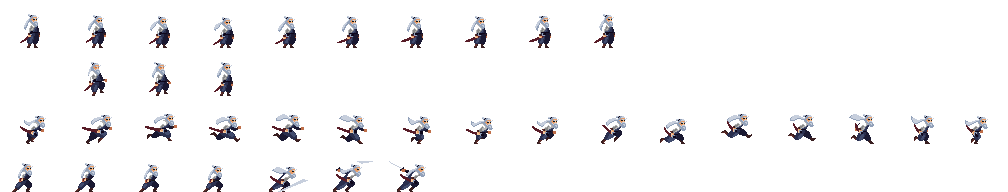
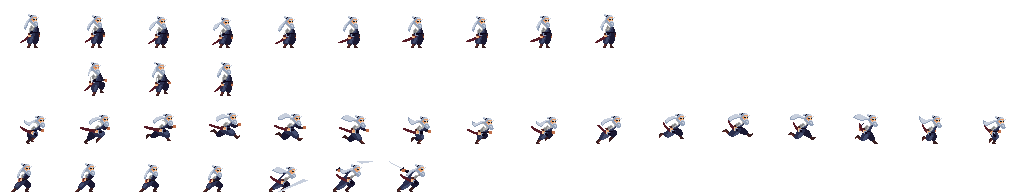
Init do Jogo

diff --git a/jogo.c b/jogo.c
@@ -6,20 +6,40 @@
 
 
 void InitJogo(VariveisGerais *geral, VariveisJogo *jogo, TAMANHOS tamanhos){
-    geral->jogador = geral->jogador = (Player){100,
+    
+    geral->jogador = (Player){100,
          3,
         (float)tamanhos.tamanho_bloco[0]/tamanhos.tamanho_jogador[0]*3,
-        (SDL_FRect){100, 100, tamanhos.tamanho_jogador[0], tamanhos.tamanho_jogador[1]}};
+    };
+
+    jogo->jogador = InitPlayer(
+    geral->renderizador, 
+    (SDL_FRect){100,100,tamanhos.tamanho_jogador[0],tamanhos.tamanho_jogador[1]},
+    (SDL_FRect){100,100,tamanhos.tamanho_jogador[0]/2,tamanhos.tamanho_jogador[1]*((float)2/3)},
+    "C:/Users/17898981/projetos/Teste_SDL3/assets/images/entities/player/Samurai.png"
+    );
 
     jogo->cor_fundo = (SDL_Color)AZUL;
     jogo->velocidade_jogador_x = 0;
     jogo->velocidade_jogador_y = 0;
-    memset(jogo->mapa,1,sizeof(jogo->mapa));
+    memset(jogo->mapa,0,sizeof(jogo->mapa));
 
-    for(int i = 0; i < TamanhosMapaX; i++) printf("%d", jogo->mapa[i][0]);
+    //for(int i = 0; i < TamanhosMapaX; i++) printf("%d", jogo->mapa[i][0]);
+}
 
+void CalcularJogo(VariveisGerais *geral, VariveisJogo *jogo, TAMANHOS tamanhos){
+    // a fazer
+    tamanhos->tamanho_jogador[0]/ (float)64 / 640; 
+    tamanhos->tamanho_jogador[1]/ (float)48 / 360 ;  
 
-
+    float x = tamanhos.tamanho_tela[0] * ( (double)jogo->jogador.retangulo_coli.x/tamanhos.tamanho_tela[0] );
+    float y = tamanhos.tamanho_tela[1] * ( (double)jogo->jogador.retangulo_coli.y/tamanhos.tamanho_tela[1] );
+    jogo->jogador = InitPlayer(
+    geral->renderizador, 
+    (SDL_FRect){x,y,tamanhos.tamanho_jogador[0],tamanhos.tamanho_jogador[1]},
+    (SDL_FRect){x,y,tamanhos.tamanho_jogador[0]/2,tamanhos.tamanho_jogador[1]*((float)2/3)},
+    "C:/Users/17898981/projetos/Teste_SDL3/assets/images/entities/player/Samurai.png"
+    );
 }
 
 void CenaJogoLoop(VariveisGerais *geral, VariveisJogo *jogo)
@@ -58,8 +78,8 @@ void CenaJogoLoop(VariveisGerais *geral, VariveisJogo *jogo)
     if (jogo->velocidade_jogador_y > 0 && jogo->velocidade_jogador_y < 0.5)
         jogo->velocidade_jogador_y = 0;
 
-    geral->jogador.retangulo.x += jogo->velocidade_jogador_x;
-    geral->jogador.retangulo.y += jogo->velocidade_jogador_y;
+    jogo->jogador.retangulo_coli.x += jogo->velocidade_jogador_x;
+    jogo->jogador.retangulo_coli.y += jogo->velocidade_jogador_y;
 
     if (jogo->velocidade_jogador_x < 0)
         jogo->velocidade_jogador_x += 0.3;
@@ -79,5 +99,19 @@ void CenaJogoDesenhar(VariveisGerais *geral, VariveisJogo *jogo)
 
     // player
     SDL_SetRenderDrawColor(geral->renderizador, 255, 0, 0, 255);
-    SDL_RenderFillRect(geral->renderizador, &geral->jogador.retangulo);
+    SDL_RenderFillRect(geral->renderizador, &jogo->jogador.retangulo_coli);
+}
+
+PlayerInJogo InitPlayer(SDL_Renderer *renderizador, SDL_FRect retangulo_img, SDL_FRect retangulo_coli,  char *img){
+    PlayerInJogo player = {
+    100.0,
+    3,
+    (float)retangulo_coli.w/48,
+    retangulo_img,
+    retangulo_coli,
+    retangulo_coli,
+    retangulo_coli,
+    IMG_LoadTexture(renderizador, img)};
+    return player;
+
 }

diff --git a/jogo.h b/jogo.h
@@ -4,13 +4,19 @@
 
 #define TamanhosMapaX 512
 #define TamanhosMapaY 128
+#define medida_img_x
+#define medida_img_y
 
 typedef struct PlayerInJogo
 {
-    int vida;
+    float vida;
     int coracoes;
     float velocidade;
-    SDL_FRect retangulo;
+    SDL_FRect retangulo_img;
+    SDL_FRect retangulo_coli;
+    SDL_FRect retangulo_coli_h;
+    SDL_FRect retangulo_coli_v;
+    SDL_Texture *sprites_atlas;
 }PlayerInJogo;
 
 typedef struct VariveisJogo
@@ -19,13 +25,16 @@ typedef struct VariveisJogo
     int velocidade_jogador_x;
     int velocidade_jogador_y;
     uint8_t mapa[TamanhosMapaX][TamanhosMapaY];
-    PlayerinJogo jogodor;
+    PlayerInJogo jogador;
 } VariveisJogo;
 
 
 
 void InitJogo(VariveisGerais *geral, VariveisJogo *jogo, TAMANHOS tamanhos);
+void CalcularJogo(VariveisGerais *geral, VariveisJogo *jogo, TAMANHOS tamanhos);
 void CenaJogoLoop(VariveisGerais *geral, VariveisJogo *jogo);
 void CenaJogoDesenhar(VariveisGerais *geral, VariveisJogo *jogo);
+
+PlayerInJogo InitPlayer(SDL_Renderer *renderizador, SDL_FRect retangulo_img, SDL_FRect retangulo_coli,  char *img);
 
 #endif // JOGO_H_INCLUDED

diff --git a/gerais.c b/gerais.c
@@ -59,8 +59,8 @@ void GetTamanhos(TAMANHOS *tamanhos)
     tamanhos->tamanho_bloco[0]      = tamanhos->tamanho_tela[0] * (float)64 / 640;
     tamanhos->tamanho_bloco[1]      = tamanhos->tamanho_tela[1] * (float)64 / 360;
 
-    tamanhos->tamanho_jogador[0]    = tamanhos->tamanho_tela[0] * (float)36 / 640;
-    tamanhos->tamanho_jogador[1]    = tamanhos->tamanho_tela[1] * (float)36 / 360;
+    tamanhos->tamanho_jogador[0]    = tamanhos->tamanho_tela[0] * (float)64 / 640;
+    tamanhos->tamanho_jogador[1]    = tamanhos->tamanho_tela[1] * (float)48 / 360;
 
     tamanhos->tamanho_inimigo1[0]   = tamanhos->tamanho_tela[0] * (float)36 / 640;
     tamanhos->tamanho_inimigo1[1]   = tamanhos->tamanho_tela[1] * (float)36 / 360;

diff --git a/gerais.h b/gerais.h
@@ -99,7 +99,6 @@ typedef struct Player
     int vida;
     int coracoes;
     float velocidade;
-    SDL_FRect retangulo;
 } Player;
 
 // Structs especicas para organizar dados

diff --git a/main.c b/main.c
@@ -74,6 +74,7 @@ int main(void)
             geral.troca_reso = false;
             InitMenu(&geral, &menu, tamanhos);
             InitPause(&geral, &pause, tamanhos);
+            CalcularJogo(&geral, &jogo, tamanhos);
         }
 
         // Limpar a Tela